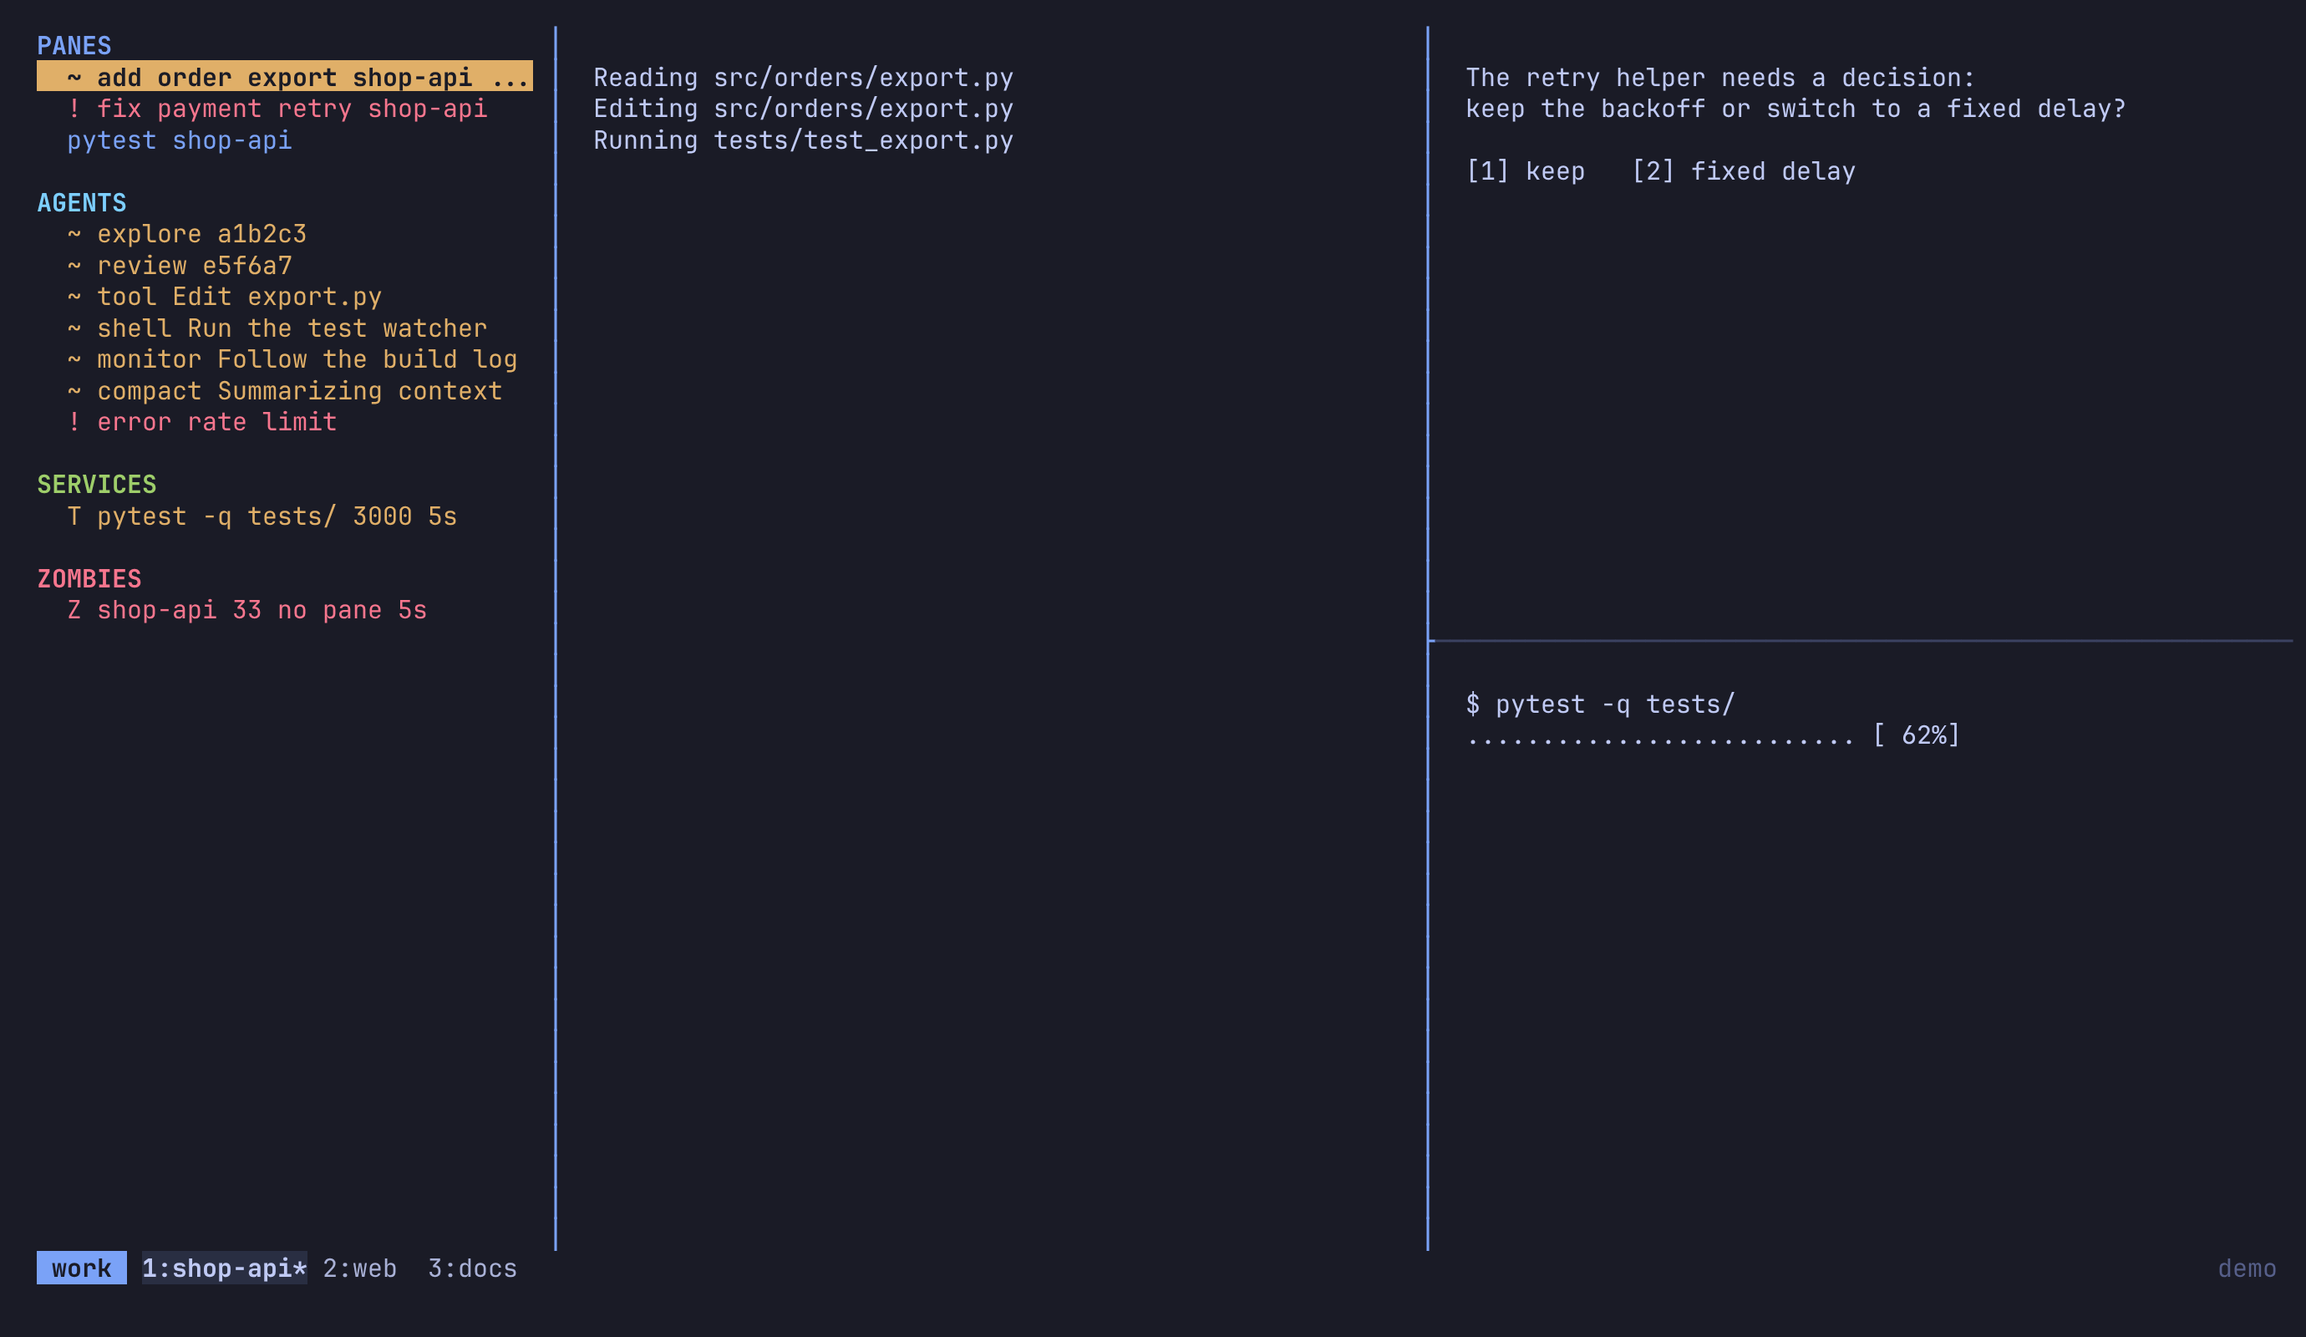
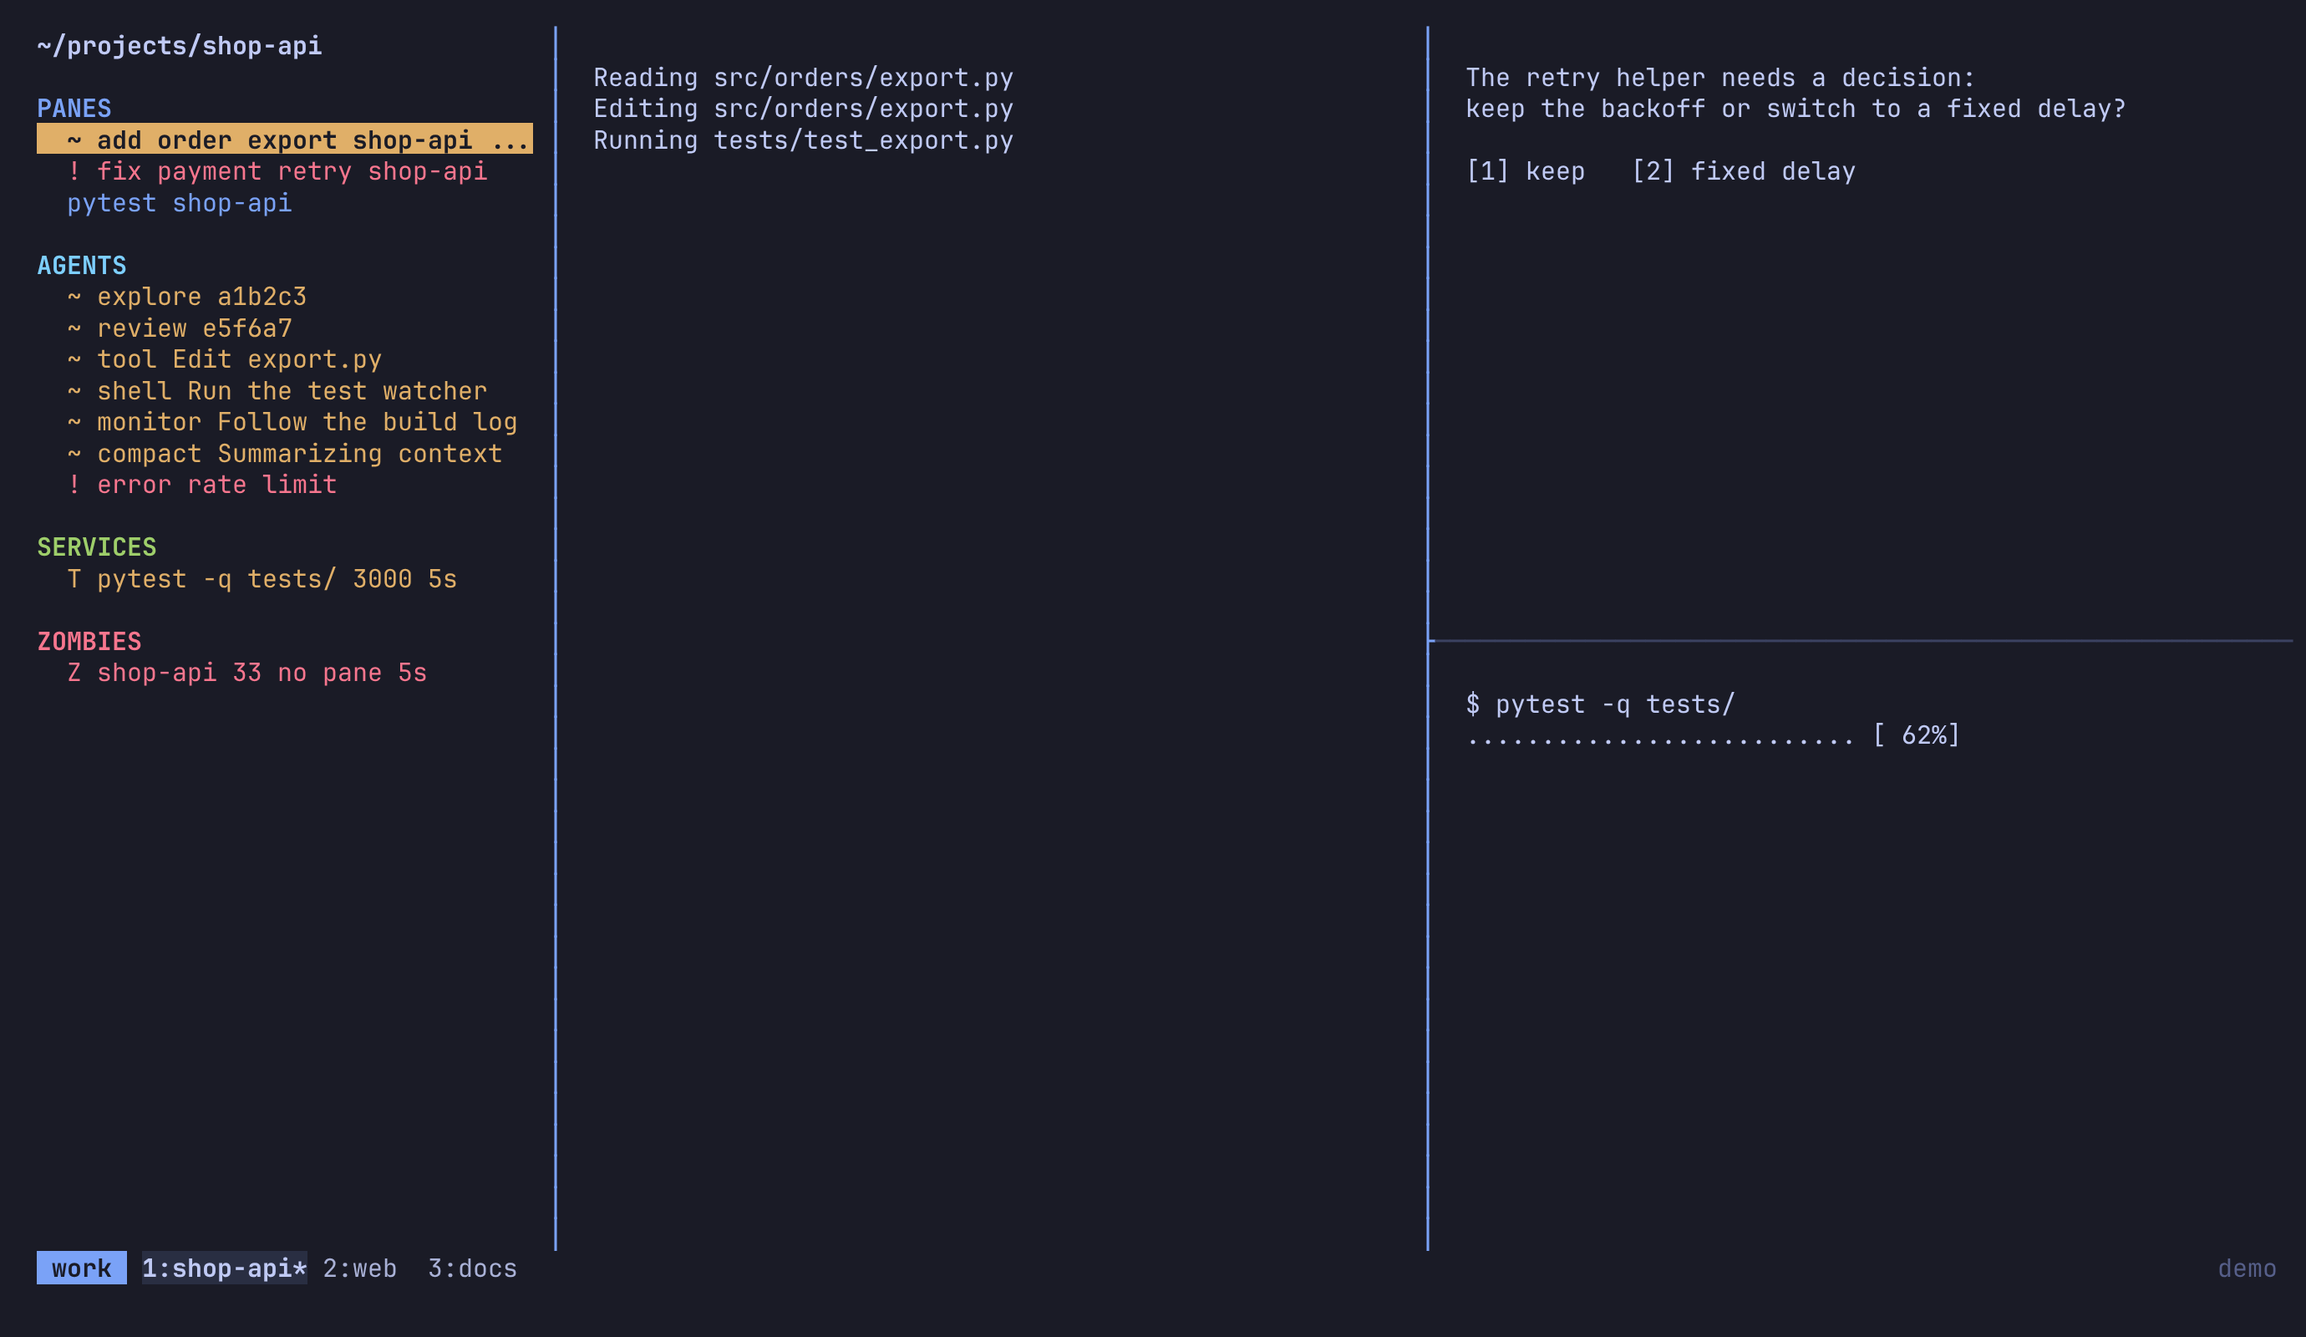
feat(panel): show the directory of the window at the top

Changed region(s): [[0.0, 0.0312, 0.2493, 0.5312], [0.1246, 0.5, 0.187, 0.5312]]

diff --git a/tests/test_panel.py b/tests/test_panel.py
@@ -2,6 +2,8 @@
 
 import textwrap
 
+import pytest
+
 from tests.builders import build_pane_record, build_process
 from tmux_sidepanel.configuration import default_configuration, parse_configuration
 from tmux_sidepanel.panel import build_panel
@@ -134,3 +136,45 @@ def test_two_sections_of_one_type_each_use_their_own_options():
     ]
     panel = build_panel(configuration, snapshot_of([pane], processes))
     assert [len(view.rows) for view in panel.sections] == [1, 0]
+
+
+class TestDirectory:
+    def directory_of(self, *panes, home=""):
+        snapshot = Snapshot(panes=list(panes), window_identifier="@1", home_directory=home)
+        return build_panel(default_configuration(), snapshot).directory
+
+    def test_it_is_the_directory_of_the_active_pane(self):
+        idle = build_pane_record(current_directory="/srv/idle", is_active=False)
+        active = build_pane_record(current_directory="/srv/active", is_active=True)
+        assert self.directory_of(idle, active) == "/srv/active"
+
+    def test_the_panel_pane_does_not_count_when_it_has_the_focus(self):
+        panel = build_pane_record(current_directory="/srv/panel", is_active=True, is_panel=True)
+        other = build_pane_record(current_directory="/srv/other", is_active=False)
+        last = build_pane_record(current_directory="/srv/last", is_active=False, is_last=True)
+        assert self.directory_of(panel, other, last) == "/srv/last"
+
+    def test_without_an_active_or_last_pane_it_is_the_first_pane(self):
+        first = build_pane_record(current_directory="/srv/first", is_active=False)
+        second = build_pane_record(current_directory="/srv/second", is_active=False)
+        assert self.directory_of(first, second) == "/srv/first"
+
+    def test_a_pane_of_another_window_does_not_count(self):
+        other = build_pane_record(current_directory="/srv/other", window_identifier="@2")
+        assert self.directory_of(other) == ""
+
+    @pytest.mark.parametrize(
+        ("directory", "expected"),
+        [
+            ("/home/someone", "~"),
+            ("/home/someone/project", "~/project"),
+            ("/home/someone2/project", "/home/someone2/project"),
+        ],
+    )
+    def test_the_home_directory_is_shown_as_a_tilde(self, directory, expected):
+        pane = build_pane_record(current_directory=directory)
+        assert self.directory_of(pane, home="/home/someone") == expected
+
+    def test_escape_sequences_in_the_directory_are_made_safe(self):
+        pane = build_pane_record(current_directory="/srv/\x1b[31mred")
+        assert self.directory_of(pane) == "/srv/?[31mred"

diff --git a/src/tmux_sidepanel/panel.py b/src/tmux_sidepanel/panel.py
@@ -6,9 +6,11 @@ from dataclasses import dataclass
 from tmux_sidepanel.configuration import AgentSettings, Configuration, Section
 from tmux_sidepanel.custom_rows import build_custom_section
 from tmux_sidepanel.pane_rows import build_pane_section, build_subagent_section
+from tmux_sidepanel.panes import PaneRecord
 from tmux_sidepanel.rows import PanelView, SectionView
 from tmux_sidepanel.service_rows import build_other_service_section, build_service_section
 from tmux_sidepanel.snapshot import Snapshot
+from tmux_sidepanel.terminal_text import sanitize_for_terminal
 from tmux_sidepanel.zombie_rows import build_zombie_section
 
 SectionBuilder = Callable[[Section, Snapshot, AgentSettings], SectionView]
@@ -48,8 +50,27 @@ def build_section(section: Section, snapshot: Snapshot, agents: AgentSettings) -
     return BuiltSection(section, view)
 
 
+def without_home(directory: str, home: str) -> str:
+    """The directory with a tilde for the home directory, for a person to read."""
+    is_inside_home = home and (directory == home or directory.startswith(f"{home}/"))
+    return f"~{directory.removeprefix(home)}" if is_inside_home else directory
+
+
+def is_pane_in_use(pane: PaneRecord, window_identifier: str) -> bool:
+    return pane.is_not_panel() and pane.window_identifier == window_identifier
+
+
+def panel_directory(snapshot: Snapshot) -> str:
+    """The directory of the pane in use: the panel itself can have the focus, so it never counts."""
+    panes = filter(lambda item: is_pane_in_use(item, snapshot.window_identifier), snapshot.panes)
+    pane = min(panes, key=lambda item: (not item.is_active, not item.is_last), default=None)
+    directory = without_home(pane.current_directory, snapshot.home_directory) if pane else ""
+    return sanitize_for_terminal(directory)
+
+
 def build_panel(configuration: Configuration, snapshot: Snapshot) -> PanelView:
     """The enabled sections in the order of the configuration, without empty ones that hide."""
     enabled = filter(lambda section: section.enabled, configuration.sections)
     built = [build_section(section, snapshot, configuration.agents) for section in enabled]
-    return PanelView(tuple(item.view for item in filter(BuiltSection.is_shown, built)))
+    shown = tuple(item.view for item in filter(BuiltSection.is_shown, built))
+    return PanelView(shown, panel_directory(snapshot))

diff --git a/tests/test_panel_screen.py b/tests/test_panel_screen.py
@@ -17,6 +17,7 @@ from tests.tmux_support import (
 pytestmark = pytest.mark.skipif(not tmux_is_installed(), reason="tmux is not installed")
 
 SOURCE = PROJECT_ROOT / "src"
+FIRST_ROW = 4  # below the directory, a blank line and the title of the first section
 
 
 def panel_command(configuration_folder):
@@ -72,13 +73,13 @@ def screen_row_of(tmux_client, pane, text):
 
 def test_a_right_click_on_a_row_opens_its_menu(tmux_client, panel_pane):
     assert shows(tmux_client, panel_pane, "PANES")
-    click(tmux_client, panel_pane, 2, 5, 2)
+    click(tmux_client, panel_pane, 2, 5, FIRST_ROW)
     assert shows(tmux_client, panel_pane, "go to pane")
 
 
 def test_a_click_on_a_menu_item_runs_it(tmux_client, panel_pane):
     assert shows(tmux_client, panel_pane, "PANES")
-    click(tmux_client, panel_pane, 2, 5, 2)
+    click(tmux_client, panel_pane, 2, 5, FIRST_ROW)
     assert shows(tmux_client, panel_pane, "go to pane")
     click(tmux_client, panel_pane, 0, 5, screen_row_of(tmux_client, panel_pane, "go to pane"))
     assert wait_until(lambda: "go to pane" not in captured_text(tmux_client, panel_pane))
@@ -94,3 +95,11 @@ def test_q_ends_the_panel(tmux_client, panel_pane):
     assert shows(tmux_client, panel_pane, "PANES")
     press(tmux_client, panel_pane, "q")
     assert wait_until(lambda: "panel" not in window_names(tmux_client))
+
+
+def test_the_first_line_is_the_directory_of_the_window(tmux_client, tmp_path):
+    arguments = ["new-window", "-d", "-n", "panel", "-c", str(tmp_path), panel_command(tmp_path)]
+    tmux_client.run(*arguments)
+    pane = first_pane_of_window(tmux_client, "panel").pane_identifier
+    assert shows(tmux_client, pane, "PANES")
+    assert captured_text(tmux_client, pane).splitlines()[0].endswith(tmp_path.name)

diff --git a/src/tmux_sidepanel/panel_layout.py b/src/tmux_sidepanel/panel_layout.py
@@ -19,7 +19,7 @@ class SelectableRow:
 @dataclass(frozen=True)
 class Line:
     text: str
-    kind: str  # title, row, empty or blank
+    kind: str  # header, title, row, empty or blank
     state: str
     is_active: bool
     selection_index: int  # the position among the selectable rows, or -1
@@ -32,6 +32,15 @@ def clip_text(text: str, width: int) -> str:
     if width <= len(ELLIPSIS):
         return text[: max(width, 0)]
     return text[: width - len(ELLIPSIS)] + ELLIPSIS
+
+
+def clip_start(text: str, width: int) -> str:
+    """Clip the front of the text, because the end of a path says the most."""
+    if len(text) <= width:
+        return text
+    if width <= len(ELLIPSIS):
+        return text[len(text) - max(width, 0) :]
+    return ELLIPSIS + text[len(text) - width + len(ELLIPSIS) :]
 
 
 def section_rows(section: SectionView) -> list[SelectableRow]:
@@ -69,6 +78,14 @@ def section_lines(section: SectionView, first_index: int, width: int) -> list[Li
 def separator_lines(lines_so_far: list[Line]) -> list[Line]:
     """One blank line between sections, none before the first."""
     return [Line("", "blank", "", False, NO_SELECTION)] if lines_so_far else []
+
+
+def header_lines(panel: PanelView, width: int) -> list[Line]:
+    """The directory above everything else, or nothing when the window has no directory."""
+    if not panel.directory:
+        return []
+    header = Line(clip_start(panel.directory, width), "header", "", False, NO_SELECTION)
+    return [header, Line("", "blank", "", False, NO_SELECTION)]
 
 
 def build_lines(panel: PanelView, width: int) -> list[Line]:

diff --git a/tests/test_panel_layout.py b/tests/test_panel_layout.py
@@ -3,10 +3,13 @@
 import pytest
 
 from tmux_sidepanel.panel_layout import (
+    NO_SELECTION,
     Line,
     SelectableRow,
     build_lines,
+    clip_start,
     clip_text,
+    header_lines,
     selectable_rows,
 )
 from tmux_sidepanel.rows import PanelView, Row, SectionView
@@ -114,3 +117,28 @@ class TestBuildLines:
 
     def test_a_line_is_a_plain_value(self):
         assert Line("t", "title", "", False, -1) == Line("t", "title", "", False, -1)
+
+
+class TestClipStart:
+    def test_short_text_is_kept(self):
+        assert clip_start("~/project", 20) == "~/project"
+
+    def test_long_text_keeps_its_end_within_the_width(self):
+        assert clip_start("/srv/apps/shop-api", 10) == "...hop-api"
+
+    @pytest.mark.parametrize(("width", "expected"), [(3, "api"), (1, "i"), (0, ""), (-1, "")])
+    def test_a_very_narrow_width_cuts_without_dots(self, width, expected):
+        assert clip_start("shop-api", width) == expected
+
+
+class TestHeaderLines:
+    def test_the_directory_is_a_line_that_cannot_be_selected_with_a_blank_after_it(self):
+        lines = header_lines(PanelView((), directory="/srv/apps/shop-api"), 10)
+        assert [(line.text, line.kind) for line in lines] == [
+            ("...hop-api", "header"),
+            ("", "blank"),
+        ]
+        assert lines[0].selection_index == NO_SELECTION
+
+    def test_without_a_directory_there_is_no_header(self):
+        assert header_lines(PanelView(()), 10) == []

diff --git a/src/tmux_sidepanel/screen_layout.py b/src/tmux_sidepanel/screen_layout.py
@@ -1,5 +1,7 @@
 """Fitting the lines of the panel and the footer on a screen of a given height."""
 
+from collections.abc import Sequence
+
 from tmux_sidepanel.panel_layout import NO_SELECTION, Line
 
 BLANK = Line("", "blank", "", False, NO_SELECTION)
@@ -18,12 +20,21 @@ def first_visible_line(line_count: int, body_height: int, selected_line: int) ->
 
 
 def compose_screen(
-    body: list[Line], footer: list[Line], height: int, selected_line: int
+    body: list[Line],
+    footer: list[Line],
+    height: int,
+    selected_line: int,
+    header: Sequence[Line] = (),
 ) -> list[Line]:
-    """The footer at the bottom of the screen, and above it the part of the body that fits."""
+    """The footer at the bottom, the header on top, and between them the body that fits.
+
+    On a short screen the footer goes first, because it can hold a question.
+    """
     kept_footer = footer[: max(height, 0)]
-    body_height = max(height - len(kept_footer), 0)
+    free_height = max(height - len(kept_footer), 0)
+    kept_header = list(header[:free_height])
+    body_height = free_height - len(kept_header)
     first = first_visible_line(len(body), body_height, selected_line)
     shown = body[first : first + body_height]
     padding = [BLANK] * (body_height - len(shown)) if kept_footer else []
-    return shown + padding + kept_footer
+    return kept_header + shown + padding + kept_footer

diff --git a/src/tmux_sidepanel/panel_screen.py b/src/tmux_sidepanel/panel_screen.py
@@ -19,7 +19,7 @@ from tmux_sidepanel.interface_state import (
 from tmux_sidepanel.key_names import key_name
 from tmux_sidepanel.line_style import LineStyle, line_style
 from tmux_sidepanel.mouse import click_at
-from tmux_sidepanel.panel_layout import Line, build_lines
+from tmux_sidepanel.panel_layout import Line, build_lines, header_lines
 from tmux_sidepanel.rows import PanelView
 from tmux_sidepanel.screen_layout import compose_screen, line_of_selection
 
@@ -74,7 +74,8 @@ def screen_lines(screen: curses.window, panel: PanelView, state: InterfaceState)
     height, width = screen.getmaxyx()
     body = build_lines(panel, width - 1)
     selected_line = line_of_selection(body, state.selected)
-    return compose_screen(body, footer_lines(state, width - 1), height, selected_line)
+    footer = footer_lines(state, width - 1)
+    return compose_screen(body, footer, height, selected_line, header_lines(panel, width - 1))
 
 
 def draw(screen: curses.window, panel: PanelView, state: InterfaceState) -> None:

diff --git a/tests/test_screen_layout.py b/tests/test_screen_layout.py
@@ -61,3 +61,17 @@ class TestComposeScreen:
 
     def test_a_screen_without_height_shows_nothing(self):
         assert compose_screen(numbered(3), [footer_line("note")], 0, 0) == []
+
+
+class TestHeader:
+    def test_the_header_stays_on_top_while_the_body_scrolls(self):
+        lines = compose_screen(numbered(6), [footer_line("f")], 4, 5, [footer_line("h")])
+        assert texts(lines) == ["h", "line 4", "line 5", "f"]
+
+    def test_the_footer_goes_before_the_header_on_a_short_screen(self):
+        lines = compose_screen(numbered(6), [footer_line("f")], 1, 0, [footer_line("h")])
+        assert texts(lines) == ["f"]
+
+    def test_the_header_goes_before_the_body_on_a_short_screen(self):
+        lines = compose_screen(numbered(6), [footer_line("f")], 2, 0, [footer_line("h")])
+        assert texts(lines) == ["h", "f"]

diff --git a/src/tmux_sidepanel/panes.py b/src/tmux_sidepanel/panes.py
@@ -53,6 +53,7 @@ class PaneRecord:
     agent_subagents: str
     agent_tasks: str
     is_panel: bool
+    is_last: bool
 
     @property
     def is_focused(self) -> bool:
@@ -112,6 +113,7 @@ PANE_FIELDS = (
     PaneField("agent_subagents", option_expression(OPTION_SUBAGENTS), to_text),
     PaneField("agent_tasks", option_expression(OPTION_TASKS), to_text),
     PaneField("is_panel", option_expression(OPTION_PANEL), to_boolean),
+    PaneField("is_last", "#{pane_last}", to_boolean),
 )
 
 PANE_FORMAT = FIELD_SEPARATOR.join(field.expression for field in PANE_FIELDS)

diff --git a/src/tmux_sidepanel/collector.py b/src/tmux_sidepanel/collector.py
@@ -4,6 +4,7 @@ A source is only read when an enabled section needs it, so a configuration with 
 starts ps or docker.
 """
 
+import os.path
 from collections.abc import Collection, Sequence
 from dataclasses import dataclass
 from operator import attrgetter
@@ -102,4 +103,5 @@ def collect_snapshot(
         containers=read_containers(collector, configuration),
         process_directories=read_process_directories(configuration, process_table, panes),
         custom_outputs=read_custom_outputs(configuration),
+        home_directory=os.path.expanduser("~"),
     )

diff --git a/tests/test_line_style.py b/tests/test_line_style.py
@@ -91,3 +91,9 @@ def test_only_titles_and_rows_take_the_color_of_their_section(kind):
 def test_every_color_that_is_used_can_be_drawn():
     used = {*STATE_COLORS.values(), *KIND_COLORS.values(), *section_colors.values()}
     assert used <= set(COLORS)
+
+
+def test_the_directory_at_the_top_is_bold_without_a_color():
+    style = line_style(build_line(kind="header"), False)
+    assert style.is_bold
+    assert style.color == ""

diff --git a/tests/test_panes.py b/tests/test_panes.py
@@ -33,6 +33,7 @@ DEFAULT_VALUES = {
     "agent_subagents": "aaa111:Explore",
     "agent_tasks": "bvz0tq:shell",
     "is_panel": "",
+    "is_last": "0",
 }
 
 
@@ -81,6 +82,7 @@ def test_parses_a_line_into_a_record():
         agent_subagents="aaa111:Explore",
         agent_tasks="bvz0tq:shell",
         is_panel=False,
+        is_last=False,
     )
 
 
